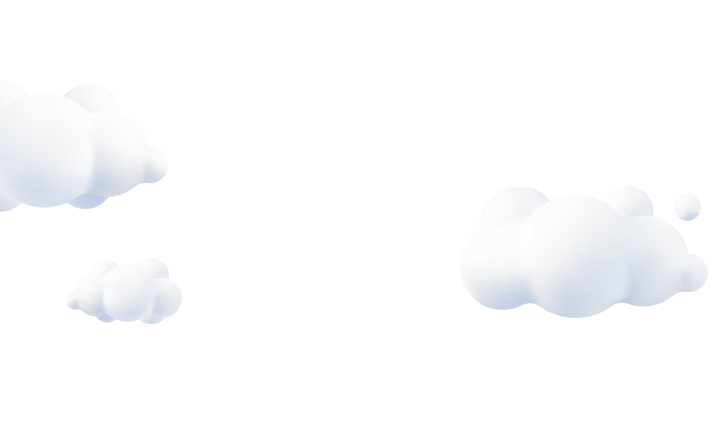
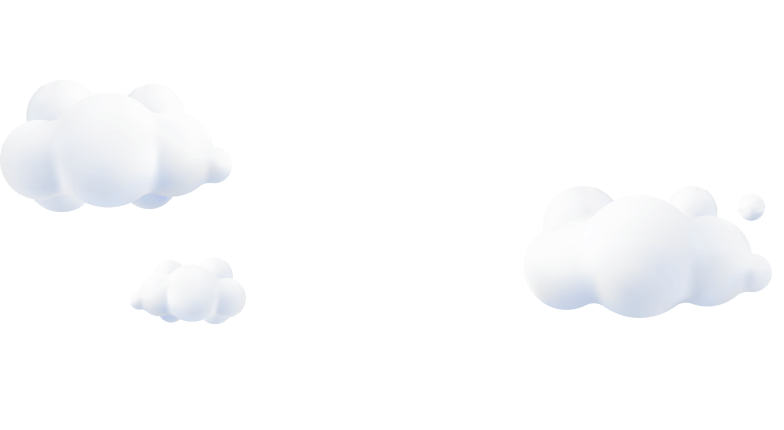
GSP_001 fold

diff --git a/css/global/contents.css b/css/global/contents.css
@@ -506,30 +506,30 @@
 }
 .visual_gsp_overseas {
   margin-top: 1.0rem;
-  height: 59.7vw;
-  background: url('../../images/global/bg_gsp1_cloud.png') no-repeat left bottom;
-  background-size: 100% auto;
+  height: 22.5rem;
+  background: url('../../images/global/bg_gsp1_cloud.png') no-repeat right bottom;
+  background-size: auto 100%;
 }
 .visual_gsp_overseas .img_character_hahamom {
   position: absolute;
-  bottom: -7.5vw;
-  left: 36.3vw;
-  width: 39.7vw;
-  height: 53.8vw;
+  bottom: -2.7rem;
+  left: 50%;
+  margin-left: 2.3rem;
+  transform: translateX(-50%);
 }
 .visual_gsp_overseas .img_mobile_shop {
   position: absolute;
-  bottom: -4.4vw;
-  left: 6.1vw;
-  width: 37.2vw;
-  height: 38.3vw;
+  bottom: -1.6rem;
+  left: 50%;
+  margin-left: -15.6rem;
 }
 .visual_gsp_overseas .img_shoppingbag {
   position: absolute;
-  right: 6.9vw;
-  bottom: 10.2vw;
-  width: 24.1vw;
-  height: 49.4vw;
+  left: 50%;
+  bottom: 4.2rem;
+  width: 8.7rem;
+  height: 17.8rem;
+  margin-left: 7.2rem;
 }
 .visual_gsp_overseas.transform .img_shoppingbag {
   animation: floating10 4s ease-in-out infinite;
@@ -2218,6 +2218,11 @@
   }
   .list_masters_benefit .category_free span {
     max-width: none;
+  }
+
+  /* GSP_001 */
+  .visual_gsp_overseas {
+    background-position-x: center;
   }
 
   /* GSP_002 */
